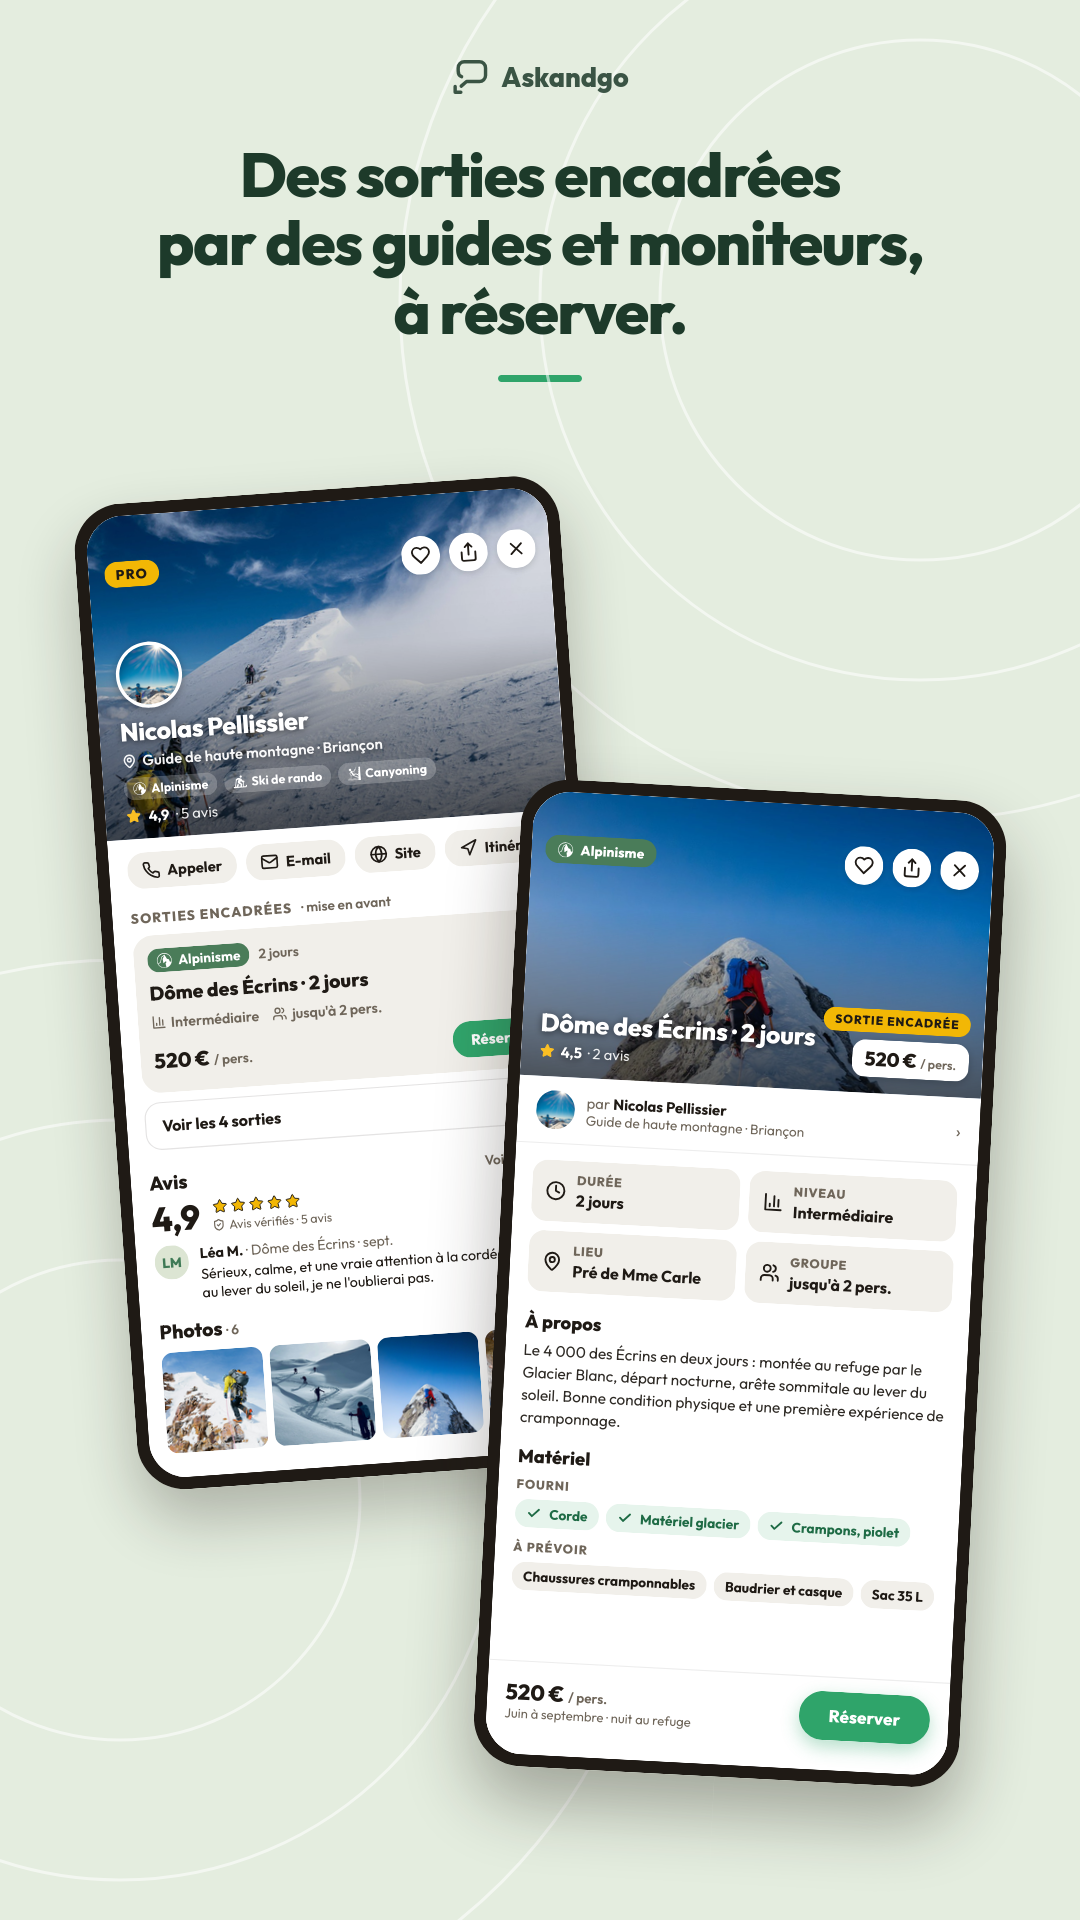
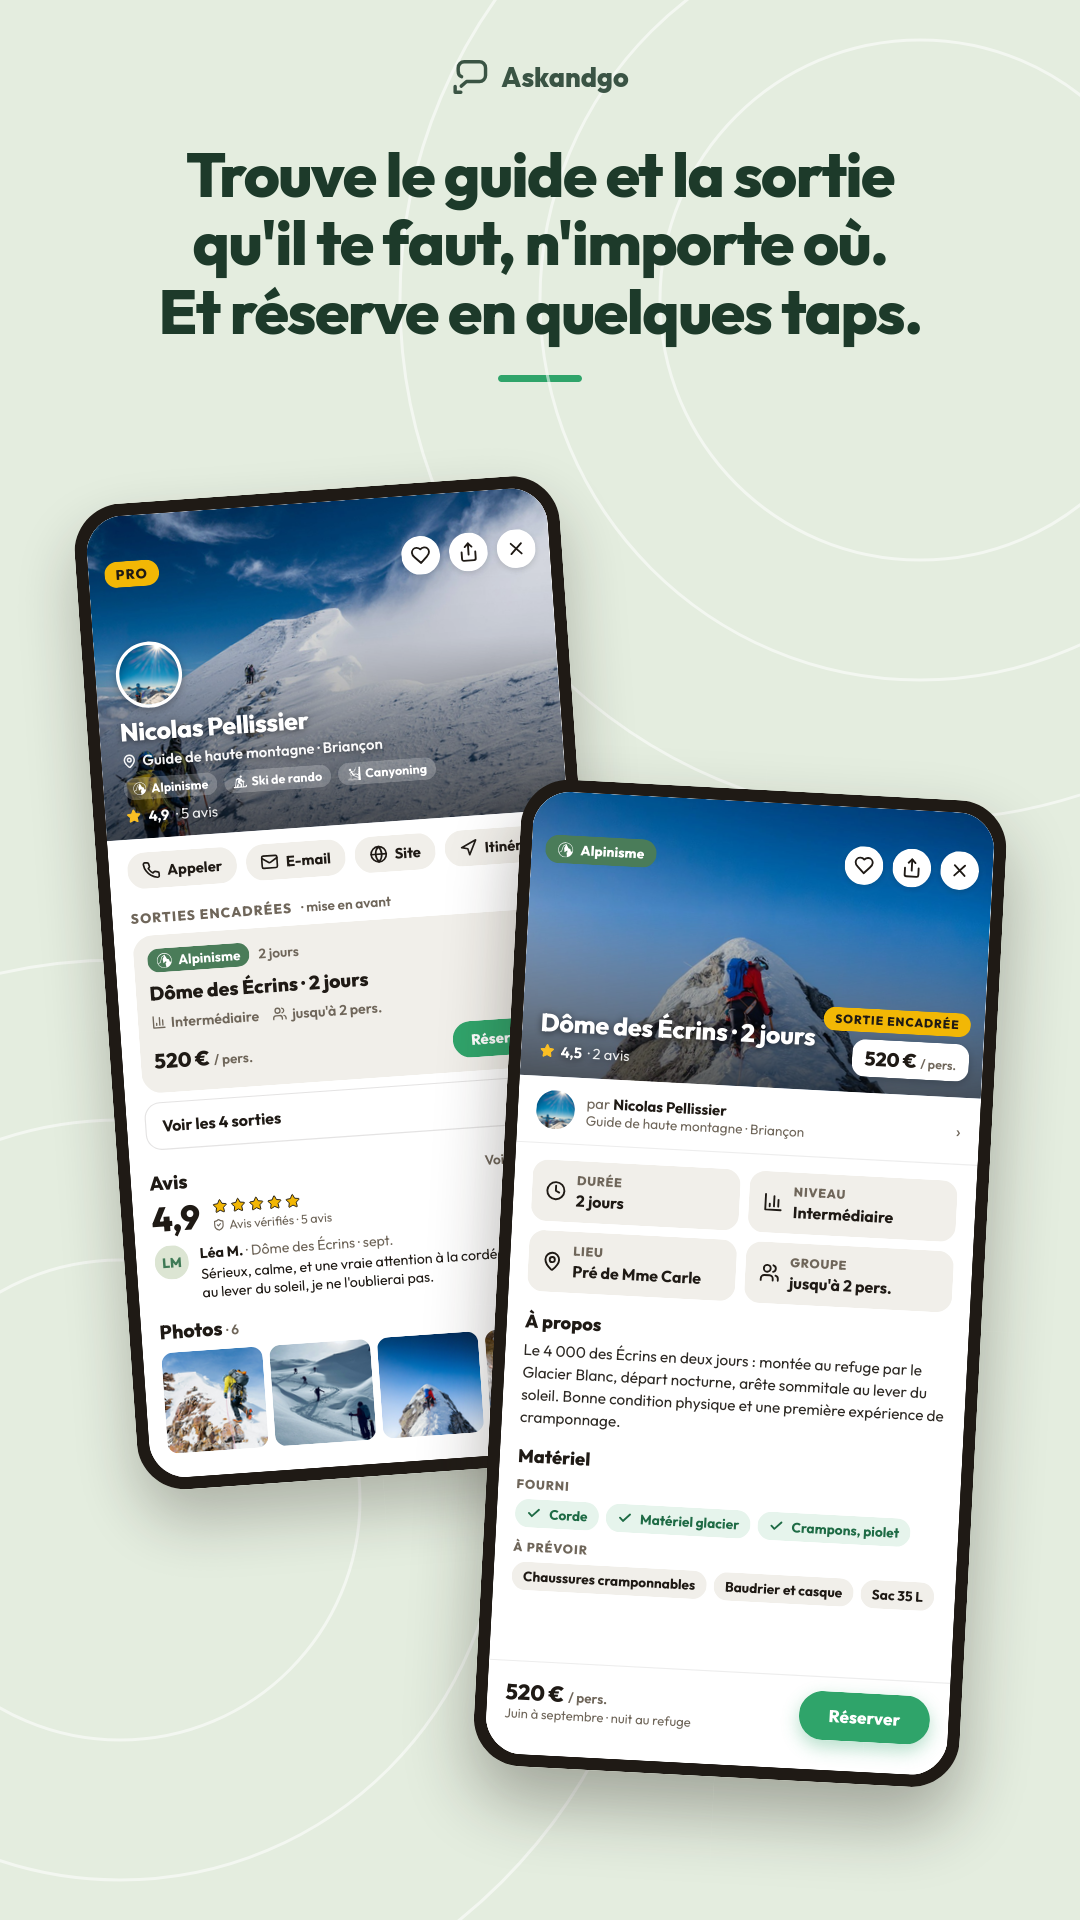
feat(play): titles of images 4 (anywhere you go, sport by sport) and 6 (find the guide and the outing you need, anywhere, book in a few taps)

Changed region(s): [[0.1222, 0.0625, 0.8556, 0.1875]]

diff --git a/assets/play-store/askandgo/two.py b/assets/play-store/askandgo/two.py
@@ -136,12 +136,12 @@ thread_body = f'''<div class="zoomwrap" style="background:#FFF">
 <div style="padding:10px 14px 24px;display:flex;align-items:center;gap:10px"><div style="flex:1;background:#F1EFEA;border-radius:999px;padding:11px 16px;font-size:14px;color:{SEC}">Écrire un message…</div><span style="width:40px;height:40px;border-radius:50%;background:{GREEN};display:inline-flex;align-items:center;justify-content:center">{li('chev',18,'#FFF',2.6)}</span></div></div>'''
 
 if which == '4':
-    html = side_by_side("Les discussions des pratiquants<br>de ta vallée,<br>sport par sport.", '', canaux_body, thread_body,
+    html = side_by_side("Rejoins les discussions des pratiquants,<br>sport par sport, partout où tu vas.<br>Conditions, matos, sorties qui se montent.", '', canaux_body, thread_body,
                         [(sp('ski-touring', 34, INK), 'Par sport'), (li('pin', 32, INK), 'Par vallée'), (li('users', 32, INK), 'Ouvert à tous')])
 elif which == '3':
     html = two_screens("Des partenaires de sortie :<br>même sport, même zone,<br>mêmes dates.", '', partenaires_body, dispo_body)
 else:
-    html = two_screens("Des sorties encadrées<br>par des guides et moniteurs,<br>à réserver.", "", pro_body, offering_body)
+    html = two_screens("Trouve le guide et la sortie<br>qu'il te faut, n'importe où.<br>Et réserve en quelques taps.", "", pro_body, offering_body)
 html = html.replace('font-size:82px;line-height:1.04', 'font-size:62px;line-height:1.1').replace('margin:150px 70px 0;text-align:center', 'margin:140px 60px 0;text-align:center')
 open(sys.argv[2], 'w').write(html)
 print('ok')
